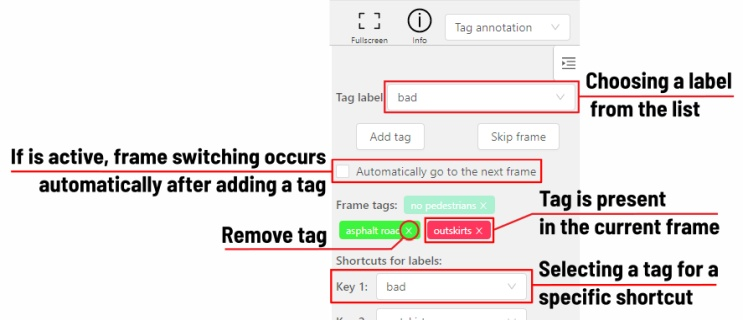
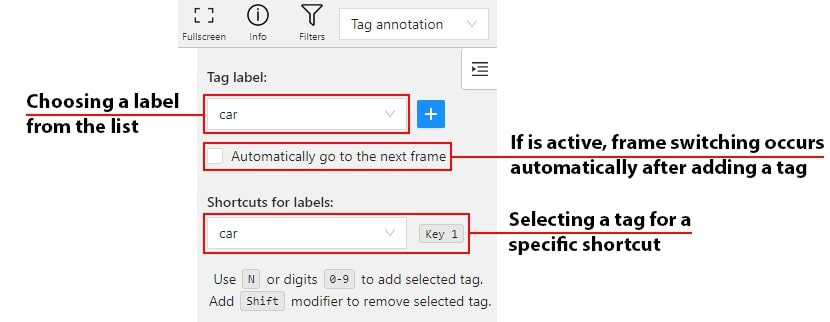
Documentation for Tags on frames (#115)

Changed region(s): [[0.0, 0.1875, 1.0, 0.9688], [0.2167, 0.0, 0.7739, 0.2188]]

diff --git a/site/content/en/docs/manual/advanced/annotation-with-tags.md b/site/content/en/docs/manual/advanced/annotation-with-tags.md
@@ -10,10 +10,14 @@ Before you start, open the drop-down list in the top panel and select `Tag annot
 ![](/images/image183.jpg)
 
 The objects sidebar will be replaced with a special panel for working with tags.
-Here you can select a label for a tag and add it by clicking on the `Add tag` button.
+Here you can select a label for a tag and add it by clicking on the `Plus` button.
 You can also customize hotkeys for each label.
 
 ![](/images/image181.jpg)
 
 If you need to use only one label for one frame, then enable the `Automatically go to the next frame`
 checkbox, then after you add the tag the frame will automatically switch to the next.
+
+Tags will be shown in the top left corner of the canvas. You can show/hide them in the settings.
+
+![](/images/image249.jpg)

diff --git a/site/content/en/docs/manual/basics/settings.md b/site/content/en/docs/manual/basics/settings.md
@@ -55,6 +55,8 @@ In tab `Workspace` you can:
 
 - `Intelligent polygon cropping` - activates intelligent cropping when editing the polygon (read more in the section [edit polygon](/docs/manual/advanced/annotation-with-polygons/edit-polygon/)
 
+- `Show tags on frame` - shows/hides frame tags on current frame
+
 - `Attribute annotation mode (AAM) zoom margin` input box — defines margins (in px)
   for shape in the attribute annotation mode.
 - Click `Save` to save settings (settings will be saved on the server and will not change after the page is refreshed).
